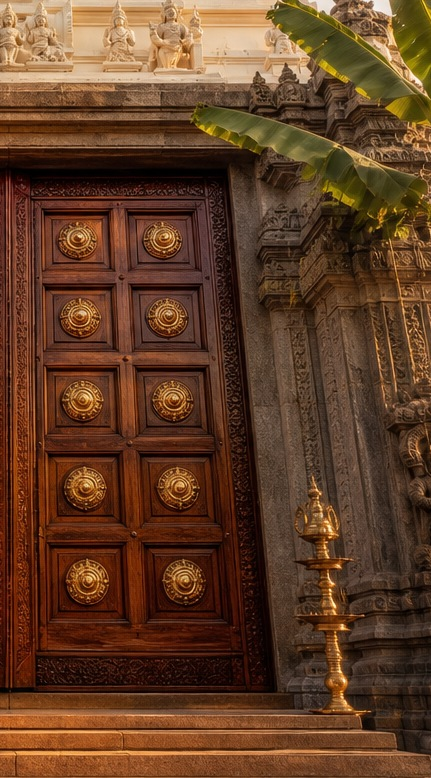
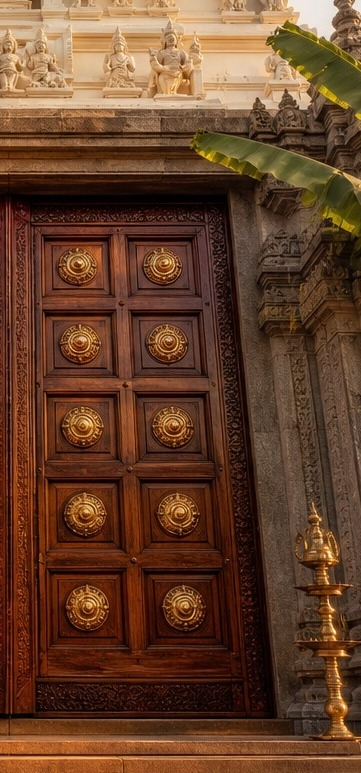
Tighten door opening to brown panels only

diff --git a/index.html b/index.html
@@ -32,7 +32,6 @@
 
     <link rel="stylesheet" href="style.css" />
     <link rel="stylesheet" href="hero-thiruchendur.css" />
-    <link rel="preload" as="image" href="assets/images/temple-entrance-full.jpg" />
     <link rel="preload" as="image" href="assets/images/temple-facade-mask.png" />
     <link rel="preload" as="image" href="assets/images/temple-door-left.jpg" />
     <link rel="preload" as="image" href="assets/images/temple-door-right.jpg" />
@@ -134,18 +133,7 @@
             <!-- Full-width realistic temple door entrance -->
             <div class="cinematic-hero__entrance cinematic-hero__entrance--immersive" id="door-entrance">
               <div class="cinematic-hero__temple-stage" id="temple-stage">
-                <!-- Full image when closed (seamless) -->
-                <img
-                  class="cinematic-hero__temple-facade cinematic-hero__temple-facade--full"
-                  id="facade-full"
-                  src="assets/images/temple-entrance-full.jpg"
-                  alt=""
-                  width="1536"
-                  height="1024"
-                  decoding="async"
-                  aria-hidden="true"
-                />
-                <!-- Frame with door cutout — fades on scroll to reveal names -->
+                <!-- Static frame (stone, gopuram, trees) — only brown door hole is cut out -->
                 <img
                   class="cinematic-hero__temple-frame"
                   id="temple-frame"
@@ -165,8 +153,8 @@
                         src="assets/images/temple-door-left.jpg"
                         alt=""
                         class="cinematic-hero__door-photo"
-                        width="430"
-                        height="778"
+                        width="360"
+                        height="773"
                         decoding="async"
                         aria-hidden="true"
                       />
@@ -178,8 +166,8 @@
                         src="assets/images/temple-door-right.jpg"
                         alt=""
                         class="cinematic-hero__door-photo"
-                        width="430"
-                        height="778"
+                        width="360"
+                        height="773"
                         decoding="async"
                         aria-hidden="true"
                       />

diff --git a/hero-thiruchendur.css b/hero-thiruchendur.css
@@ -223,18 +223,6 @@
   z-index: 2;
 }
 
-.cinematic-hero__temple-facade--full {
-  position: absolute;
-  inset: 0;
-  width: 100%;
-  height: 100%;
-  object-fit: cover;
-  object-position: center center;
-  z-index: 2;
-  display: block;
-  pointer-events: none;
-}
-
 .cinematic-hero__temple-frame {
   position: absolute;
   inset: 0;
@@ -248,7 +236,7 @@
   border: none;
   outline: none;
   z-index: 3;
-  opacity: 0;
+  opacity: 1;
   transform: none !important;
   will-change: opacity;
 }
@@ -263,11 +251,12 @@
 }
 
 .cinematic-hero__door-scene--immersive {
+  /* Tight fit: brown teak door panels only */
   position: absolute;
-  left: 21.5%;
-  top: 21.5%;
-  width: 57%;
-  height: 77%;
+  left: 26.5%;
+  top: 19.5%;
+  width: 47%;
+  height: 75.5%;
   margin: 0;
   z-index: 10;
   perspective: 2200px;
@@ -279,6 +268,7 @@
   box-shadow: none;
   transform: none;
   isolation: isolate;
+  overflow: hidden;
 }
 
 .cinematic-hero__welcome {
@@ -313,7 +303,6 @@
   display: block;
   pointer-events: none;
   user-select: none;
-  transform: scale(1.06);
   border: none;
   outline: none;
 }
@@ -358,10 +347,10 @@
 
 @media (max-width: 768px) {
   .cinematic-hero__door-scene--immersive {
-    left: 18.5%;
-    top: 23.5%;
-    width: 63%;
-    height: 73%;
+    left: 24%;
+    top: 21%;
+    width: 52%;
+    height: 72%;
   }
 
   .cinematic-hero__pillar { width: 18px; }
@@ -371,9 +360,9 @@
 
 @media (min-aspect-ratio: 16/10) {
   .cinematic-hero__door-scene--immersive {
-    left: 22.5%;
-    top: 20%;
-    width: 55%;
-    height: 79%;
+    left: 27%;
+    top: 18.5%;
+    width: 46%;
+    height: 77%;
   }
 }

diff --git a/script.js b/script.js
@@ -71,7 +71,6 @@ const CONFIG = {
   const heroRays = document.getElementById('hero-rays');
   const warmLight = document.getElementById('warm-light');
   const templeFrame = document.getElementById('temple-frame');
-  const facadeFull = document.getElementById('facade-full');
   const weddingStage = document.getElementById('wedding-stage');
   const incense = document.getElementById('hero-incense');
   const pillars = document.querySelectorAll('.cinematic-hero__pillar');
@@ -190,22 +189,11 @@ const CONFIG = {
     /* Play bell when doors begin opening */
     if (rawProgress > 0.04) playTempleBell();
 
-    /* Full image visible when closed; frame mask takes over as doors open */
-    if (facadeFull && templeFrame) {
-      const reveal = Math.min(1, doorProgress / 0.15);
-      facadeFull.style.opacity = String(1 - reveal);
-      templeFrame.style.opacity = String(reveal > 0 ? Math.max(0.01, reveal) : 0);
-
-      const frameFade = doorProgress < 0.12
+    /* Fade temple frame sides on scroll — brown doors rotate separately */
+    if (templeFrame) {
+      const frameFade = doorProgress < 0.1
         ? 1
-        : Math.max(0, 1 - (doorProgress - 0.12) / 0.5);
-      if (doorProgress > 0.08) {
-        templeFrame.style.opacity = String(reveal * frameFade);
-      }
-    } else if (templeFrame) {
-      const frameFade = doorProgress < 0.08
-        ? 1
-        : Math.max(0, 1 - (doorProgress - 0.08) / 0.55);
+        : Math.max(0, 1 - (doorProgress - 0.1) / 0.5);
       templeFrame.style.opacity = String(frameFade);
     }
 
